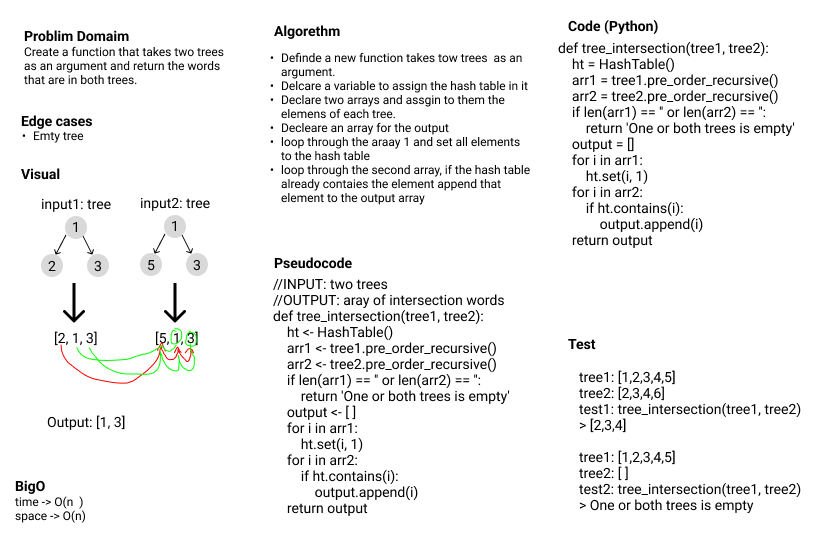
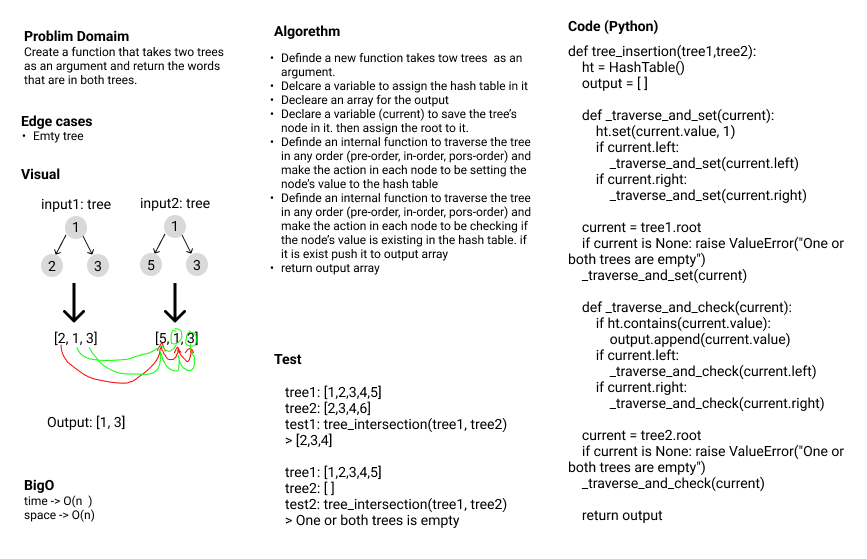
fix: intersection (low space complixity)

diff --git a/class32_tree_intersection/tree_intersection/tree_intersection.py b/class32_tree_intersection/tree_intersection/tree_intersection.py
@@ -72,8 +72,6 @@ class BinarySearchTree(BinaryTree):
                     break
 
 
-
-
 class HashTable(object):
     def __init__(self, size=1024):
         self.size = size
@@ -126,6 +124,36 @@ class HashTable(object):
             return False
 
 
+def tree_insertion_low_space(tree1,tree2):
+    ht = HashTable()
+    output = []
+    
+    def _traverse_and_set(current):
+        ht.set(current.value, 1)
+        if current.left:
+            _traverse_and_set(current.left)
+        if current.right:
+            _traverse_and_set(current.right)
+
+    current = tree1.root
+    if current is None: raise ValueError("One or both trees are empty")
+    _traverse_and_set(current)
+
+    def _traverse_and_check(current):
+        if ht.contains(current.value):
+            output.append(current.value)
+        if current.left:
+            _traverse_and_check(current.left)
+        if current.right:
+            _traverse_and_check(current.right)
+
+    current = tree2.root
+    if current is None: raise ValueError("One or both trees are empty")
+    _traverse_and_check(current)
+
+    return output
+
+
 def tree_intersection(tree1, tree2):
     '''
     A function to append to an array the intersection values of two binary trees.
@@ -158,6 +186,34 @@ def tree_intersection_arr(tree1, tree2):
 
 
 
+# Zaid's solution
+def tree_intersection(bt1, bt2):
+    """
+    Input: two binary trees
+    doing: traverse the first tree and store the values in a hashtable
+    output: returns an array of the values, ordered appropriately.
+    """
+    if bt1.root is None or bt2.root is None:
+        raise Exception ("Tree is empty")
+
+    hashtable = HashTable()
+
+    def tree_traversal(root,root2):
+        if root.value == root2.value:
+            hashtable.set(str(root.value), True)
+        if root.left and root2.left:
+            tree_traversal(root.left,root2.left)
+        if root.right and root2.right:
+            tree_traversal(root.right,root2.right)
+
+    tree_traversal(bt1.root,bt2.root)
+    return set(hashtable.keys())
+
+
+
+
+
+
 if __name__ == '__main__':
 
     tree1 = BinarySearchTree()
@@ -177,3 +233,4 @@ if __name__ == '__main__':
     tree2.insert(8)
 
     print(tree_intersection(tree1, tree2))
+    print(tree_insertion_low_space(tree1, tree2))

diff --git a/class32_tree_intersection/tests/test_tree_intersection.py b/class32_tree_intersection/tests/test_tree_intersection.py
@@ -8,17 +8,19 @@ def test_version():
 
 
 def test_tree_intersection(tree1, tree2):
-    assert tree_intersection(tree1, tree2) == [3, 5, 6, 7, 8]
+    assert tree_insertion_low_space(tree1, tree2) == [3, 5, 6, 7, 8]
 
 
 def test_tree_intersection_one_empty(tree1):
     tree2 = BinarySearchTree()
-    assert tree_intersection(tree1, tree2) == []
+    with pytest.raises(Exception):
+        assert tree_insertion_low_space(tree1, tree2)
 
 def test_tree_intersection_two_empty():
     tree1 = BinarySearchTree()
     tree2 = BinarySearchTree()
-    assert tree_intersection(tree1, tree2) == []
+    with pytest.raises(Exception):
+        assert tree_insertion_low_space(tree1, tree2)
 
 
 @pytest.fixture
